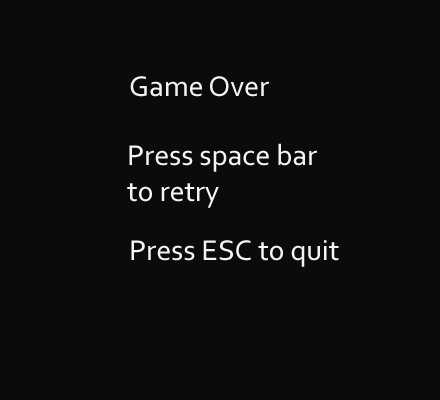
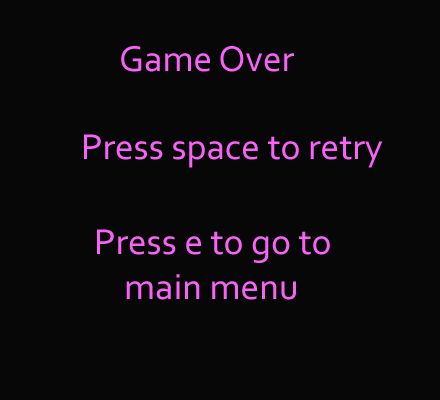
Update
Game is complete with 1 minor error but nothing to worry about.

diff --git a/Games/Planet Eater- Alex/24march.py b/Games/Planet Eater- Alex/24march.py
@@ -1,0 +1,248 @@
+import pygame #import pygame
+pygame.init() #initialises pygame
+from pygame.locals import * #imports additional pygame modules which are seen as not usually needed
+
+import random #imports random module to allow for randrange and randint
+
+width=440 #set width of screen for future use
+height=400 #set height of screen for future use
+
+window = pygame.display.set_mode((440,400)) #sets window size to 440 pixels wide, 400 pixels high
+
+background = pygame.image.load('OUTERSPACE.jpg') #gives the background image
+font = pygame.font.Font(None, 36)
+pygame.display.set_caption("Score: 0            Planet eater!") #displays captions/title for game
+clock = pygame.time.Clock()
+
+MOVEX = 100 #position of rectangle
+MOVEY = 300 #position of rectangle
+rectDirectX=5 #this is the direction and speed of rectangle1 (first enemy)
+rectDirectY=3 #direction of first enemy in y co-ords
+rectDirectXtwo=4 #direction of 2nd enemy it will travel this plus MOVEXenemytwo variable so it will move and bounce around screen
+rectDirectYtwo=6 #y direction of 2nd enemy
+
+MOVEXenemytwo=300 #second enemy variables which represents X value
+MOVEYenemytwo=150 #this represents second enemies Y position
+
+score = []# score = 0 but goes up 1 when player collects gold sprite
+
+grey=(120,255,84) #grey colour
+black = (0,0,0) #black colour
+white=(255,255,255) #white colour
+gold = (218,165,32) #gold colour
+red= (255,20,10) #red colour
+
+pygame.mixer.music.load('menusound.mp3') #loads music file to play
+pygame.mixer.music.play(-1,0.0) #plays music, -1 means loop song infinitely, 0.0 is where from song should it start
+direc1, direc2 = 0,0 #direction1 is x, direction2 is y, used to monitor where shape will go if keyboard keys pressed
+
+
+    
+
+class Sprite(pygame.sprite.Sprite): #creates class named sprite
+
+    def __init__(self,x,y,width,height): #self is reference used to objects attributes
+
+        self.x =x #x is equal to x co-ordinate
+        self.y =y #y is equal to y co-ordinate#
+
+        self.width = width #self.width is equal to width when it comes to applying it to objects inside the class
+        self.height = height
+        self.rect = pygame.Rect(x, y, width, height)
+        
+
+    def renderSprite(self):
+        pygame.draw.rect(window,grey,(self.x,self.y,self.width, self.height)) #this function renders the class and draws and rectangle with the attributes found in the class
+        self.rect = pygame.Rect(self.x, self.y, self.width, self.height) #converts rectangle to one PYGAME can use
+
+
+
+class Sprite2(pygame.sprite.Sprite): #creates class named sprite with base class used to specify game objects
+
+    def __init__(self,x,y,width,height): #self is reference used to objects attributes
+
+        self.x =x #contains the x co-ordinates of sprite2 (brown)
+        self.y =y #contains y 
+
+        self.width = width
+        self.height = height
+        
+        self.rect = pygame.Rect(x, y, width, height)
+
+    def resetPos(self):
+        self.rect.x = random.randrange(0, width)
+        
+    
+
+        
+    def renderSprite2(self):
+
+        pygame.draw.rect(window, gold,(self.x, self.y, self.width, self.height))
+
+##GoldSprite=pygame.sprite.Group()
+##GoldSprite.add(Sprite2)
+##GoldSprite.add(Sprite)
+
+##class Sprite3(pygame.sprite.Sprite): #enemy sprite
+##    def __init__(self,x,y,width,height):
+##        self.x = x
+##        self.y = y
+##        self.width = width
+##        self.height = height
+##        self.rect = pygame.Rect(x, y, width, height)
+##
+##    
+##
+##    def renderSprite3(self):
+##        pygame.draw.rect(window, red,(MOVEX, MOVEY, 20, 20))
+##        self.rect = pygame.Rect(MOVEX, MOVEY, self.width, self.height)
+
+class Sprite4(pygame.sprite.Sprite): #enemy sprite 2nd, supposed to look and act same as first enemy sprite
+    def __init__(self,MOVEXenemytwo,MOVEYenemytwo,width,height):
+        self.MOVEXenemytwo = MOVEXenemytwo #x position of 2nd enemy
+        self.MOVEYenemytwo = MOVEYenemytwo #y position of 2nd enemy
+        self.width = width
+        self.height = height
+        self.rect = pygame.Rect(MOVEXenemytwo, MOVEYenemytwo, width, height)
+
+    
+
+    def renderSprite4(self):
+        pygame.draw.rect(window, red,(MOVEXenemytwo, MOVEYenemytwo, 30, 20))
+        self.rect = pygame.Rect(MOVEXenemytwo, MOVEYenemytwo, self.width, self.height)
+        
+
+Sprite1=Sprite(20,35,15,14)#player sprite is 200 pixels across and 250 pixels down at starting point, 15 pixels wide, 14 high
+
+Spritetwo=Sprite2(105,200,15,14) #Score sprite, 105 across, 200 pixels down, 15 pixels wide, 14 pixels high
+Spritethree=Sprite3(100,200,20,20)
+Spritefour=Sprite4(200,172,30,15)
+
+
+playerScore=pygame.sprite.collide_rect(Sprite1, Spritetwo)
+
+pygame.display.flip()
+
+gameLoop = True #variable is continuing loop so program events inside can continously be used and played
+    
+
+while gameLoop: #while loop will contain if and for statements
+    if pygame.sprite.collide_rect(Sprite1, Spritethree): #sprite collides with enemy
+        pygame.quit()
+        break
+    if pygame.sprite.collide_rect(Sprite1, Spritefour):
+        pygame.quit()
+        break
+    
+    
+    for event in pygame.event.get():
+        if (event.type==pygame.QUIT): #if pygame quits gameLoop is false and program ends
+            gameLoop= False
+
+
+        if (event.type==pygame.KEYDOWN): #what happens when player has key down
+
+            if (event.key==pygame.K_LEFT): #go left x axis, -5, because getting closer to left
+
+                direc1 = -4
+
+            if (event.key==pygame.K_RIGHT): #go right x axis, 5, because adding 5 closer to right
+
+                direc1= 4
+
+            if (event.key==pygame.K_DOWN): #go down y axis, 5, 
+                direc2 = 4
+
+            if (event.key==pygame.K_UP): #go up 
+                direc2 = -4
+
+            if (event.key==pygame.K_ESCAPE):
+                pygame.quit() #when escape button pressed, game closes
+
+            if direc1 > 440:
+                pygame.quit()
+            elif direc2 > 400:
+                pygame.quit()
+
+                
+        if (event.type==pygame.KEYUP): #keyup when player doesnt have fingers on keys
+
+            if (event.key==pygame.K_LEFT): #left is 0 as player is no touching key buttons
+                direc1 = 0
+            if (event.key==pygame.K_RIGHT): #right is 0 as player is no touching key buttons so position doesnt change
+                direc1 = 0
+            if (event.key==pygame.K_UP): #up is 0 as player is no touching key buttons
+                direc2 = 0
+            if (event.key==pygame.K_DOWN): #down is 0 as player is no touching key buttons
+                direc2 = 0
+                
+    if pygame.sprite.collide_rect(Sprite1, Spritetwo):
+        Spritetwo=random.randint(0,440)
+   
+    
+  
+        
+
+    if MOVEXenemytwo > 440:
+        MOVEXenemytwo = 440
+        rectDirectXtwo= -4
+    elif MOVEXenemytwo < 0:
+        MOVEXenemytwo = 0
+        rectDirectXtwo = 4
+    elif MOVEYenemytwo > 400:
+        MOVEYenemytwo = 400
+        rectDirectYtwo = -4
+    elif MOVEYenemytwo < 0:
+        MOVEYenemytwo = 0
+    
+
+##    if MOVEX >=440: #MOVEX is greater than 440 (width of screen) then set MOVEX to 0 so it doesnt go off screen
+##        MOVEX = 440
+##        rectDirectX = -5 #rectDirectX = -5 to stop if disappearing from screen by certain pixels
+##    elif MOVEX <0:
+##        MOVEX = 0
+##        rectDirectX = 5
+##    elif MOVEY >400:
+##        MOVEY = 400
+##        rectDirectY = -5
+##    elif MOVEY <0:
+##        MOVEY = 0
+##        rectDirectY = 5
+    
+    window.fill(black) #fills window with black
+
+
+    
+    Sprite1.x+=direc1 #sprite1 has direc1 (x) co-ords inside it
+    Sprite1.y+=direc2 #sprite1 has direc2 (y) co-ords inside it
+    if Sprite1.x  > 440:
+        pygame.quit()
+        break
+    elif Sprite1.y > 400:
+        pygame.quit()
+        break
+
+    
+##    Sprite1.renderSprite() #renders first sprite and enables it to be seen by user
+##    Spritetwo.renderSprite2() #renders second sprite and enables it to be seen by user
+##    Spritethree.renderSprite3() #defines first enemy
+##    Spritefour.renderSprite4() #defines second enemy
+##    MOVEX += rectDirectX
+##    MOVEY += rectDirectY
+##    MOVEXenemytwo += rectDirectXtwo
+##    MOVEYenemytwo += rectDirectYtwo
+    
+    
+    
+    clock.tick(40) #measures speed of sprite movement
+
+    pygame.display.flip() #this updates the whole window, and performs same function as .update
+
+pygame.quit()
+
+
+
+
+
+
+

diff --git a/Games/Planet Eater- Alex/29March.py b/Games/Planet Eater- Alex/29March.py
@@ -4,7 +4,6 @@ pygame.init() #initialises pygame
 pygame.font.init()
 from pygame.locals import * #imports additional pygame modules which are seen as not usually needed
 
-import random #imports random module to allow for randrange and randint
 
 width=440 #set width of screen for future use
 height=400 #set height of screen for future use
@@ -184,7 +183,7 @@ while gameLoop: #while loop will contain if and for statements
                 pygame.quit() #when escape button pressed, game closes
 
             if (event.key==pygame.K_p): #if user presses p
-                pygame.time.wait(3000) #if user presses p the pygame program will wait a certain amount of milliseconds
+                pygame.time.wait(3000)#if user presses p the pygame program will wait a certain amount of milliseconds
                 #3000 milliseconds is equal to 3 seconds
                         
         if (event.type==pygame.KEYUP): #keyup when player doesnt have fingers on keys
@@ -227,6 +226,7 @@ while gameLoop: #while loop will contain if and for statements
         rectDirectYtwo = -4
     elif MOVEYenemytwo < 0:
         MOVEYenemytwo = 0
+        rectDirectYtwo = 5
     
 
     if MOVEX >=440: #MOVEX is greater than 440 (width of screen) then set MOVEX to 0 so it doesnt go off screen
@@ -242,30 +242,8 @@ while gameLoop: #while loop will contain if and for statements
         MOVEY = 0
         rectDirectY = 5
 
-    if Sprite1.x  > 440:
-        game=2
-
-    elif Sprite1.x <0:
-        game=2
+    
         
-    elif Sprite1.y > 400:
-        game=2
-        
-    elif Sprite1.y < 0:
-        game=2
-
-    if pygame.sprite.collide_rect(Sprite1, Spritethree): #sprite collides with enemy
-        game=2
-    if pygame.sprite.collide_rect(Sprite1, Spritefour):
-        game=2
-
-    if pygame.sprite.collide_rect(Sprite1,Spritetwo):
-        game=2
-        
-
-    if pygame.sprite.collide_rect(Sprite1,Spritetwo):
-        game=2
-
 
 
     if game==0:
@@ -273,7 +251,7 @@ while gameLoop: #while loop will contain if and for statements
         
         if event.type==pygame.KEYDOWN:
             if event.key==pygame.K_SPACE:
-                game+=1
+                game=1
             elif event.key==pygame.K_ESCAPE:
                 pygame.quit()
 
@@ -292,41 +270,51 @@ while gameLoop: #while loop will contain if and for statements
         MOVEYenemythree += rectDirectYthree
         Sprite1.x+=direc1 #sprite1 has direc1 (x) co-ords inside it
         Sprite1.y+=direc2 #sprite1 has direc2 (y) co-ords inside it
+        
+        if Sprite1.x  > 440:
+            game=2
+            
 
-    
+        elif Sprite1.x <0:
+            game=2
+            
+           
+            
+        elif Sprite1.y > 400:
+            game=2
+            
+            
+        elif Sprite1.y < 0:
+            game=2
+                    
+
+        if pygame.sprite.collide_rect(Sprite1, Spritethree): #sprite collides with enemy
+            game=2
+        if pygame.sprite.collide_rect(Sprite1, Spritefour):
+            game=2
+
+        if pygame.sprite.collide_rect(Sprite1,Spritetwo):
+            game=2
+
     
     if game==2:
         window.blit(GameOver,(0,0))
-        
-        
+        window.blit(score,(190,10))
+        SCORE=0
         if event.type==pygame.KEYDOWN:
-            if event.key==pygame.K_SPACE: 
-                window.blit(background,(0,0))
-            elif event.key==pygame.K_ESCAPE:
-                pygame.quit()
+            if event.key==pygame.K_SPACE:
                 game=1
-                Sprite1.renderSprite() #renders first sprite and enables it to be seen by user
-                Spritetwo.renderSprite2() #defines enemy
-                Spritethree.renderSprite3() #defines first enemy
-                Spritefour.renderSprite4() #defines second enemy
-                MOVEX += rectDirectX
-                MOVEY += rectDirectY
-                MOVEXenemytwo += rectDirectXtwo
-                MOVEYenemytwo += rectDirectYtwo
-                MOVEXenemythree += rectDirectXthree
-                MOVEYenemythree += rectDirectYthree
-                Sprite1.x+=direc1 #sprite1 has direc1 (x) co-ords inside it
-                Sprite1.y+=direc2 #sprite1 has direc2 (y) co-ords inside it
-
-    pygame.display.update()
-
-            
-
+            elif event.key==pygame.K_e:
+                game=0
     
+                
+    pygame.display.update()
+                
+            
 
     clock.tick(40) #measures speed of sprite movement
 
-    pygame.display.update() #this updates the whole window, and performs same function as .update
+pygame.quit() #this updates the whole window, and performs same function as .update
 
 
 
